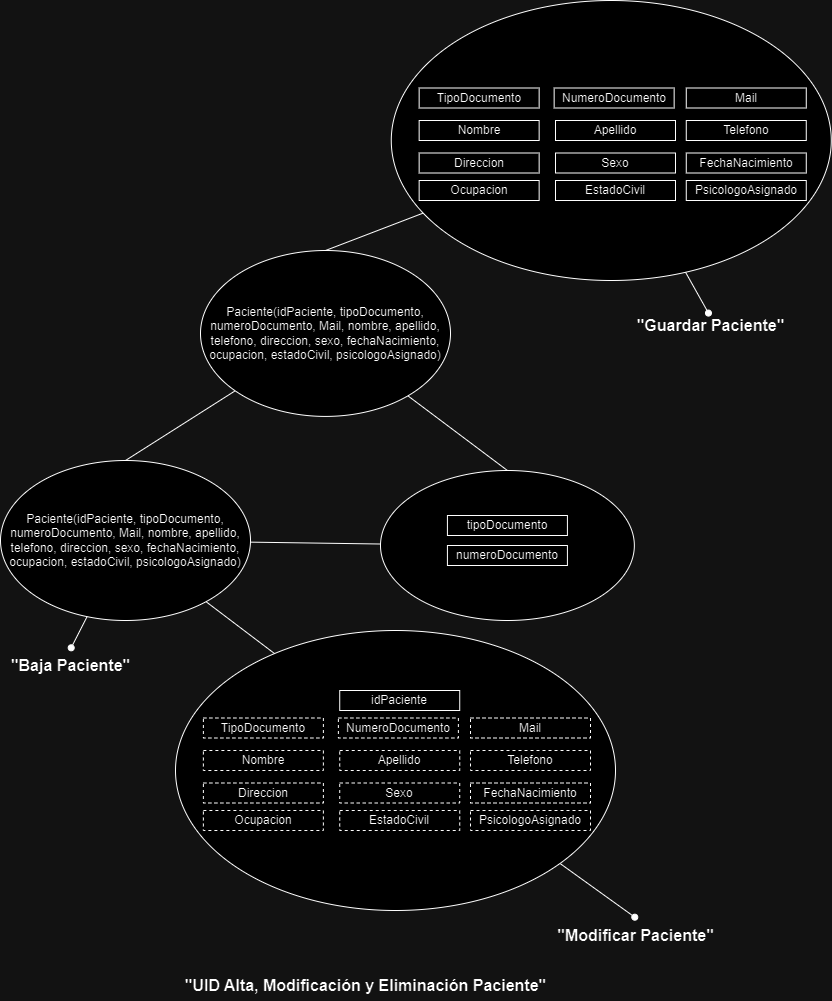
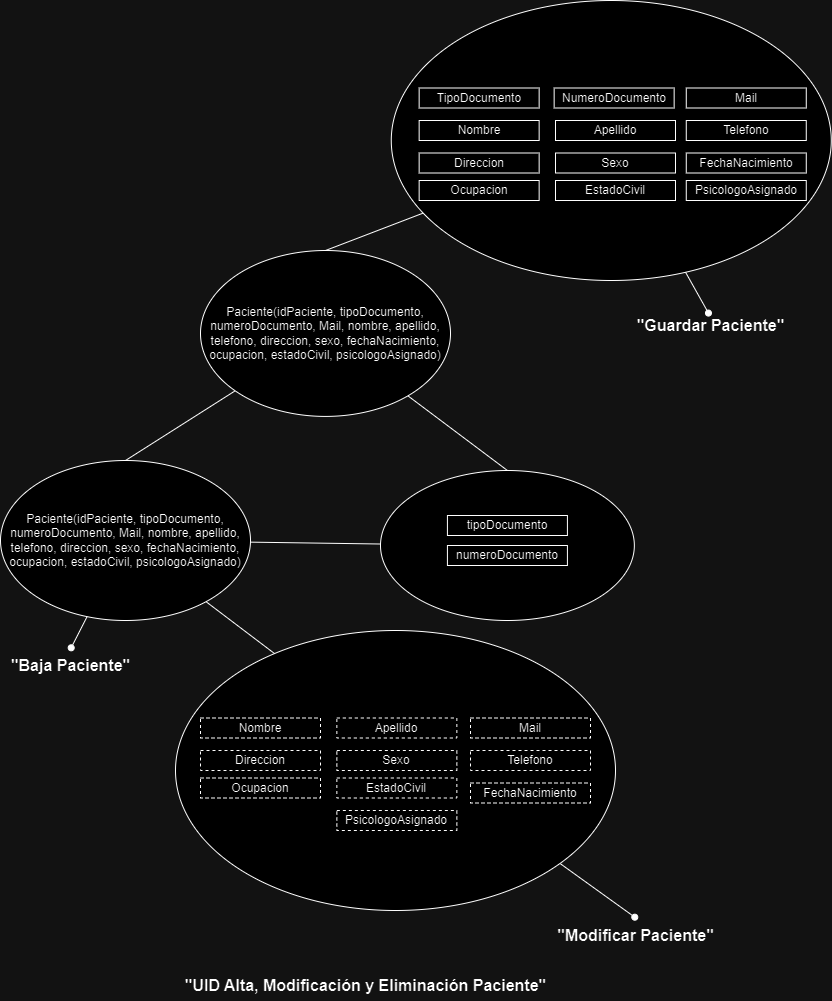
Actualizacion diagramas de la especificacion de requerimientos de la iteracion 3

Changed region(s): [[0.25, 0.6813, 0.7188, 0.8362]]

diff --git a/docs/Especificacion_de_Requerimientos_Iteracion3.md b/docs/Especificacion_de_Requerimientos_Iteracion3.md
@@ -541,34 +541,40 @@ Ninguno
 ---
 ## Modelo Navegacional
 
-![](/docs/resources/ModelosNavegacionales/ModeloNavegacionalPrincipal2daIteracion.png)
+![](/docs/resources/ModelosNavegacionales/ModeloNavegacionalPrincipal3eraIteracion.png)
 ---
-![](/docs/resources/ModelosNavegacionales/ModeloNavegacionalPacientes2daIteracion.png)
+![](/docs/resources/ModelosNavegacionales/ModeloNavegacionalPacientes3eraIteracion.png)
 ---
-![](/docs/resources/ModelosNavegacionales/ModeloNavegacionalPsicologos.png)
+![](/docs/resources/ModelosNavegacionales/ModeloNavegacionalSecretarios3eraIteracion.png)
 ---
-![](/docs/resources/ModelosNavegacionales/ModeloNavegacionalEspecialidad.png)
+![](/docs/resources/ModelosNavegacionales/ModeloNavegacionalSesiones.png)
 ---
-![](/docs/resources/ModelosNavegacionales/ModeloNavegacionaEstadoCivil.png)
+![](/docs/resources/ModelosNavegacionales/ModeloNavegacionalInformeSesion.png)
+---
+![](/docs/resources/ModelosNavegacionales/ModeloNavegacionalOcupacion.png)
 ---
 
 ## Diseño de Interfaz Abstracta
 
-### Diseño abstracto de registro y listado de psicologos ###
-![](/docs/resources/DIA's/diaPantallas-RegistrarPsicologo.png)
-### Diseño abstracto de Modificar y eliminar psicologos ###
-![](/docs/resources/DIA's/diaPantallas-Modificar_y_EliminarPsicologo.png)
-### Diseño abstracto de registro y listado de Pacientes 2da Iteracion ###
-![](/docs/resources/DIA's/diaPantallas-diaRegistrarPaciente2daIteracion.png)
-### Diseño abstracto de Modificar y eliminar Pacientes 2da Iteracion ###
-![](/docs/resources/DIA's/diaPantallas-diaModificarEliminarPaciente2daIteracion.png)
+### Diseño abstracto de registro y listado de sesiones ###
+![](/docs/resources/DIA's/diaPantallas-RegistrarSesion.png)
+### Diseño abstracto de Modificar y eliminar sesiones ###
+![](/docs/resources/DIA's/diaPantallas-Modificar_y_EliminarSesion.png)
 ### Diseño abstracto de Parametros ###
-![](/docs/resources/DIA's/diaPantallas-Parametros2daIteracion.png)
-### Diseño abstracto de obtener, listar y eliminar Estados Civiles ###
-![](/docs/resources/DIA's/diaPantallas-ObtenerListarEliminarEstadoCivil.png)
-### Diseño abstracto de modificar Estado civil ###
-![](/docs/resources/DIA's/diaPantallas-EditarEstadoCivil.png)
-### Diseño abstracto de registrar, listar y eliminar Especialidades de un Psicologo ###
-![](/docs/resources/DIA's/diaPantallas-RegistrarEspecialidad.png)
-### Diseño abstracto de modificar Especialidades de un Psicologo ###
-![](/docs/resources/DIA's/diaPantallas-ModificarEspecialidad.png)
+![](/docs/resources/DIA's/diaPantallas-Parametros3eraIteracion.png)
+### Diseño abstracto de obtener, listar y eliminar Ocupaciones ###
+![](/docs/resources/DIA's/diaPantallas-ObtenerListarEliminarOcupacion.png)
+### Diseño abstracto de modificar Ocupaciones ###
+![](/docs/resources/DIA's/diaPantallas-EditarOcupacion.png)
+### Diseño abstracto de registrar y listar Informe de una sesion ###
+![](/docs/resources/DIA's/diaPantallas-RegistrarInformeSesion.png)
+### Diseño abstracto de modificar Informe de una sesion ###
+![](/docs/resources/DIA's/diaPantallas-ModificarInformeSesion.png)
+### Diseño abstracto de registro y listado de Pacientes 3era Iteracion ###
+![](/docs/resources/DIA's/diaPantallas-diaRegistrarPaciente3eraIteracion.png)
+### Diseño abstracto de Modificar y eliminar Pacientes 3era Iteracion ###
+![](/docs/resources/DIA's/diaPantallas-diaModificarEliminarPaciente3eraIteracion.png)
+### Diseño abstracto de registro y listado de Secretarios 3era Iteracion ###
+![](/docs/resources/DIA's/diaPantallas-diaRegistrarSecretario3eraIteracion.png)
+### Diseño abstracto de Modificar y eliminar Secretarios 3era Iteracion ###
+![](/docs/resources/DIA's/diaPantallas-diaModificarEliminarSecretario3eraIteracion.png)
